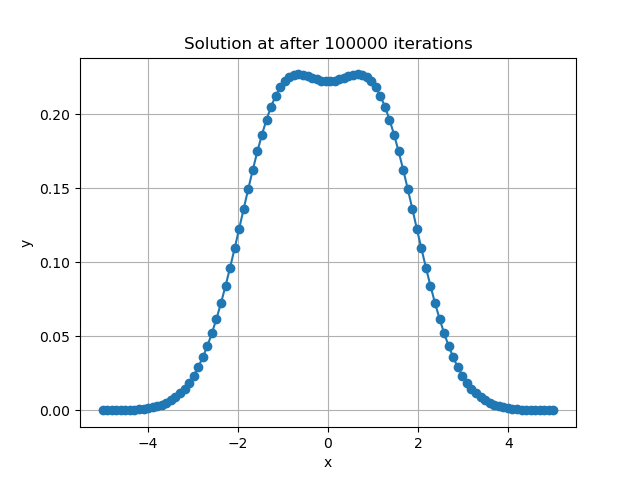
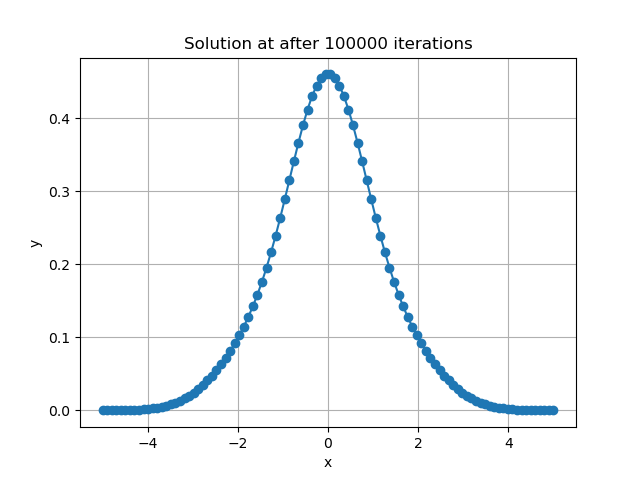
plots produced with fixed negative sign

Changed region(s): [[0.0625, 0.125, 0.9062, 0.875], [0.0625, 0.8438, 0.0938, 0.875], [0.0312, 0.5, 0.0625, 0.5312]]

diff --git a/results/post_proccess_operator.py b/results/post_proccess_operator.py
@@ -2,11 +2,11 @@ import pickle
 import numpy as np
 
 # Loading the older data
-with open('operator_957.pkl', 'rb') as file:
+with open('operator_13913.pkl', 'rb') as file:
     old_computation= pickle.load(file)
 
 # Loading the newer data
-with open('operator_1069.pkl', 'rb') as file:
+with open('operator_13913_nonegative.pkl', 'rb') as file:
     new_computation = pickle.load(file)
 
 # tolerance for the discrepancie
@@ -23,9 +23,11 @@ for slice in old_computation:
     for d in slice:
         # compute the difference
         old = d[2]
-        new = new_computation[i][j][2]
+        new = (-1)*new_computation[i][j][2]
         diff = old - new
-
+        print('old: ', old , ' new: ', new, ' difference: ', diff)
+        difference.append(diff)
+        '''        
         if np.abs(diff) > tol and np.abs(old) > 0.1:
             # compute the percentage difference
             percent = 100*diff/d[2]
@@ -36,13 +38,13 @@ for slice in old_computation:
                 # store it
                 difference.append(percent)
                 count = count + 1
-
+        '''
         j = j + 1
 
     i = i + 1
 
-print("median difference: ", np.median(np.abs(difference)))
-print("number where discrepancie is big: ", count)
+print("max difference: ", np.max(np.abs(difference)))
+# print("number where discrepancie is big: ", count)
 
 '''
 Find the location of the non-zeros

diff --git a/time_evolution/time_evolution.py b/time_evolution/time_evolution.py
@@ -4,10 +4,10 @@ from bilinear_operator import landau
 from bilinear_operator import update
 
 # tau
-tau = 0.0000001
+tau = 0.000001
 
 # number of iterations
-NUM_ITERATIONS = 5000000
+NUM_ITERATIONS = 9000
 
 # indicates if the the result is saved
 save = True
@@ -16,7 +16,7 @@ save = True
 with open('mass_inverse.pkl', 'rb') as file:
     # mass inverse
     mi = pickle.load(file)
-with open('../sparse_operator/sparse_operator_13913.pkl', 'rb') as file:
+with open('../sparse_operator/sparse_operator.pkl', 'rb') as file:
     # sparse operator
     so = pickle.load(file)
 

diff --git a/sparse_operator/compute_sparse.py b/sparse_operator/compute_sparse.py
@@ -109,7 +109,7 @@ def main():
     L = n - 1 # max value l can take?
     tol = 0.03 # tolerance for the nonzeros
 
-    file_name = "../results/operator_13913.pkl"
+    file_name = "../results/operator_13913_nonegative.pkl"
     
     op = load_operator(file_name)   # operator pkl
     nz = non_zeros(op, tol)         # non zeros
@@ -126,7 +126,7 @@ def main():
         print(slice.nnz)
     
     # save it 
-    sparse_name = "sparse_operator_13913.pkl" 
+    sparse_name = "sparse_operator.pkl" 
     save_sparse_op(sparse_name, so)
 
     return 0

diff --git a/plot/plot.py b/plot/plot.py
@@ -66,14 +66,14 @@ f = np.zeros(n)
 # coeff[9] = -0.6
 
 # open the result
-time = 5000000
+time = 9000
 file_name = "coeff/" + str(time) + ".pkl"
 # file_name = "1.pkl"
 
 with open(file_name, 'rb') as file:
     data = pickle.load(file)
 
-print(data)
+# print(data)
 # counter
 i = 0
 for point in r:
@@ -92,4 +92,4 @@ if save:
     # Save the figure
     figure_name = "./figures/" + str(time) + ".png"
     plt.savefig(figure_name)
-    plt.show()
+    # plt.show()
